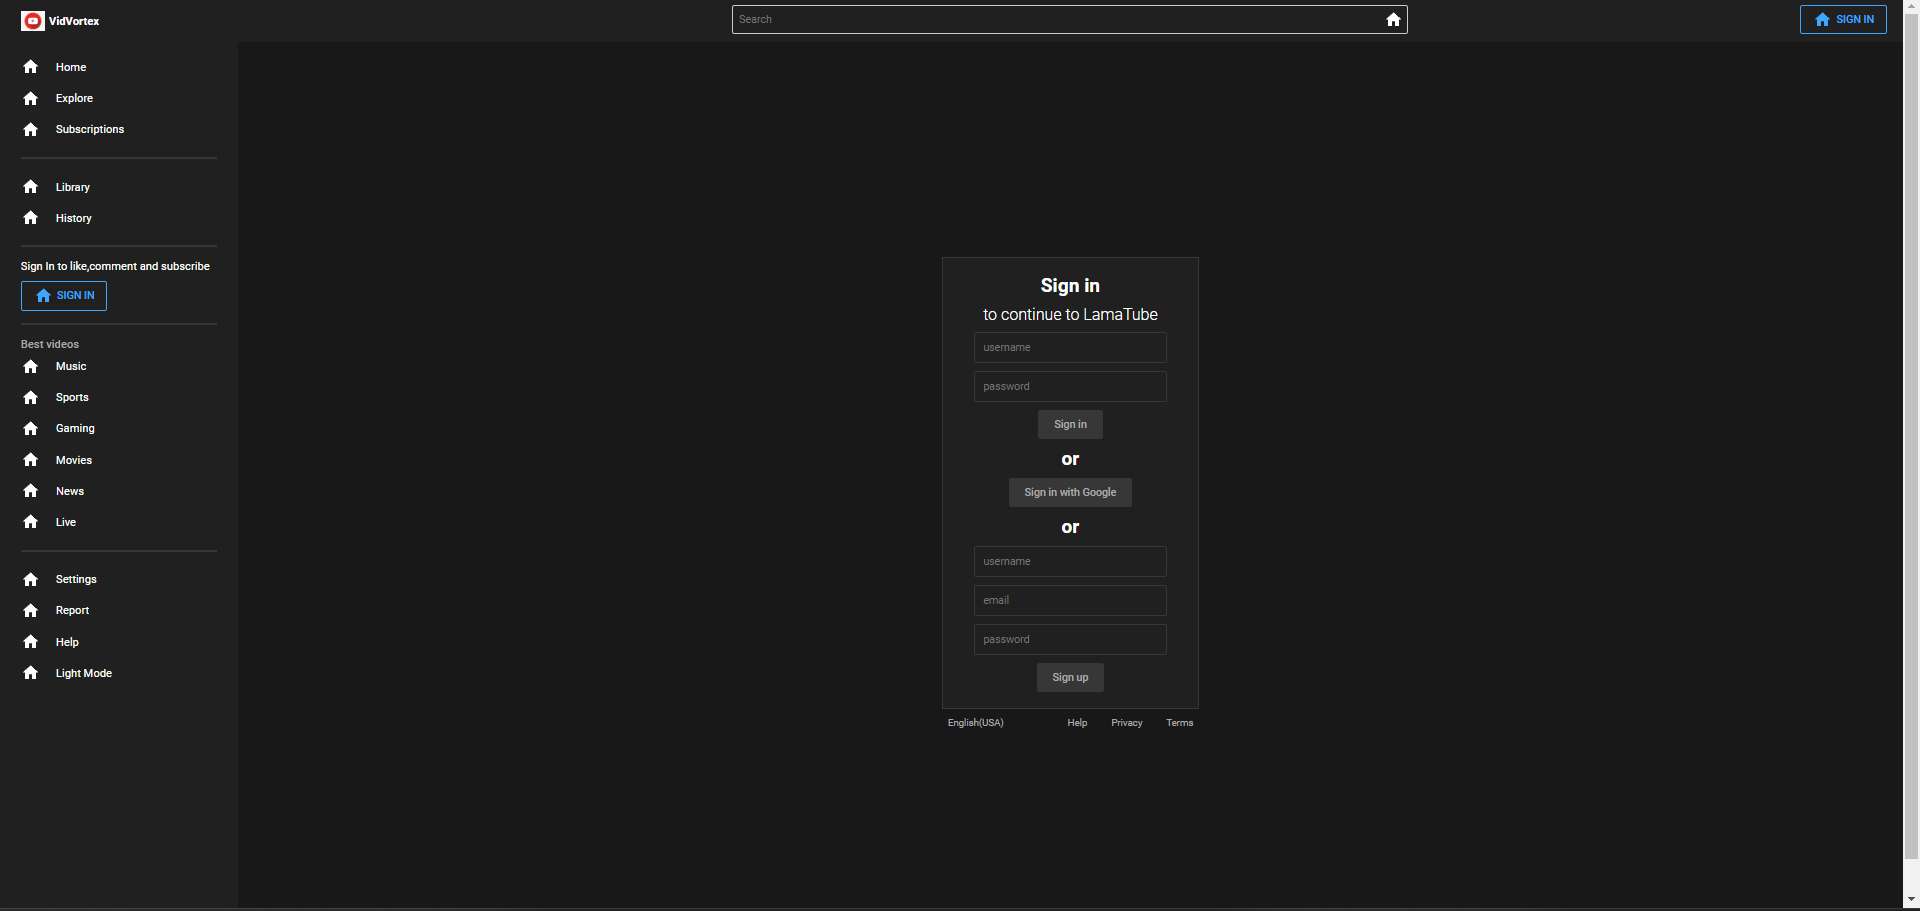
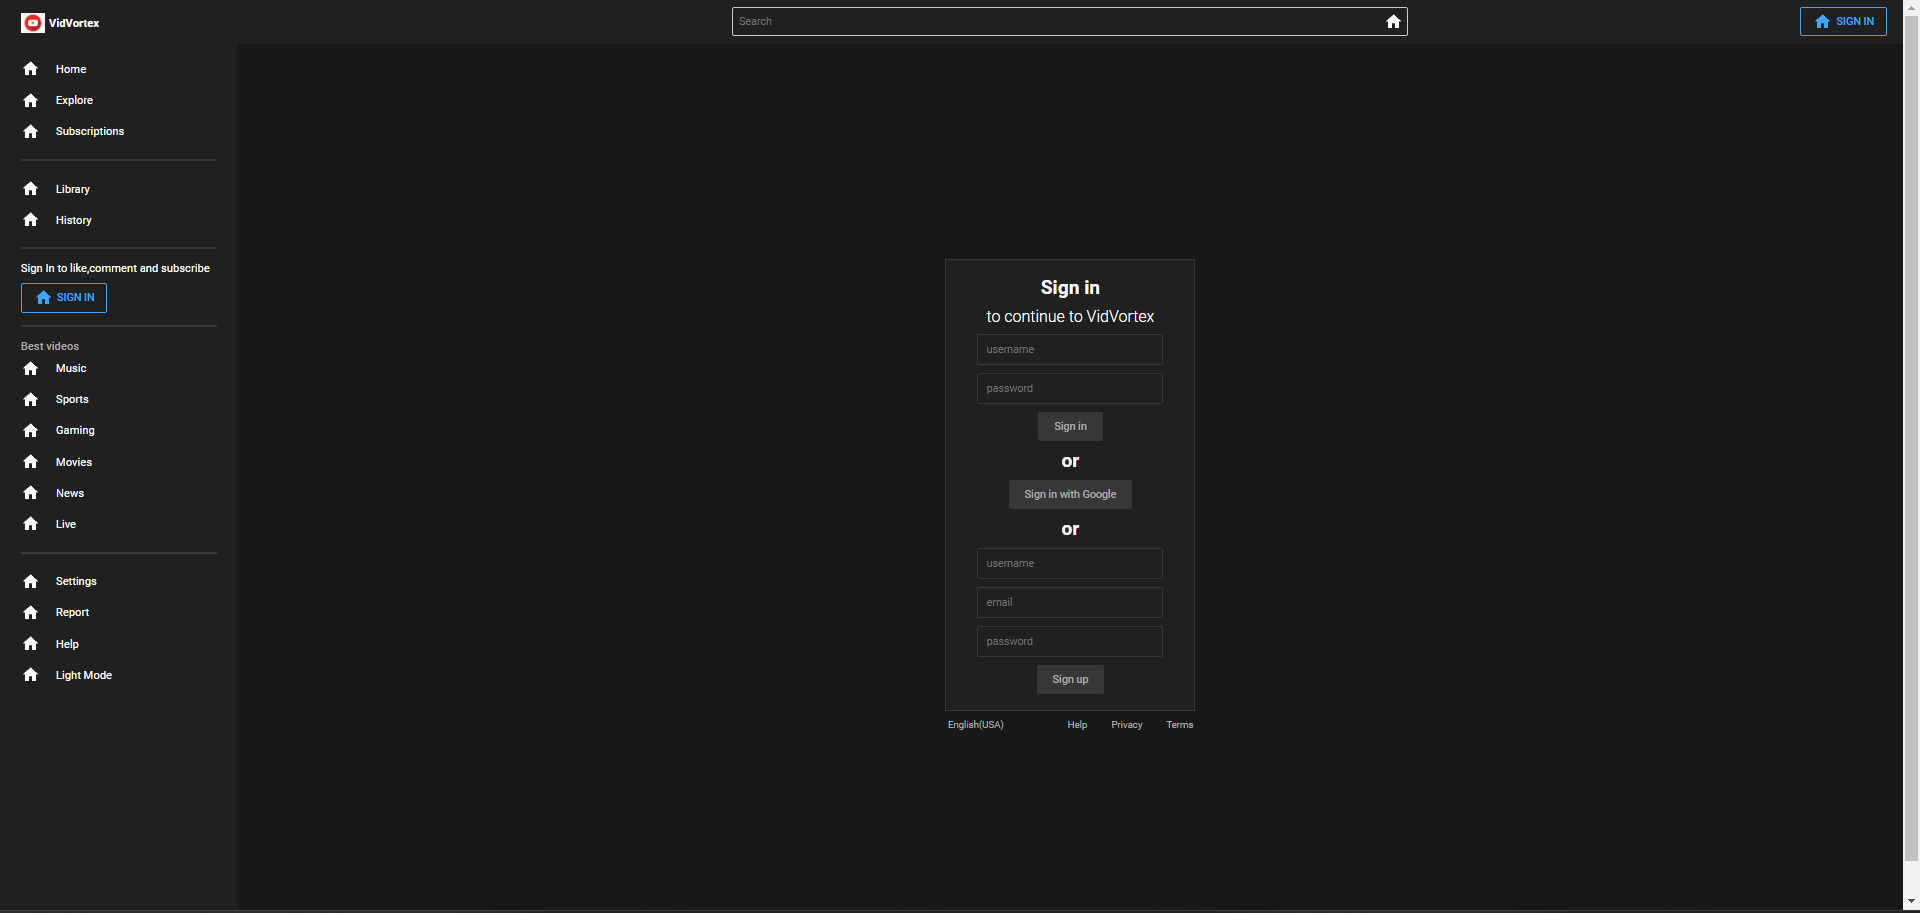
edited README.md file

diff --git a/client/src/pages/SignIn.jsx b/client/src/pages/SignIn.jsx
@@ -131,7 +131,7 @@ const SignIn = () => {
     <Container>
       <Wrapper>
         <Title>Sign in</Title>
-        <SubTitle>to continue to LamaTube</SubTitle>
+        <SubTitle>to continue to VidVortex</SubTitle>
         <Input
           placeholder="username"
           onChange={(e) => setName(e.target.value)}
